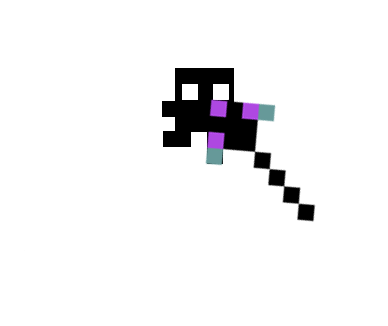
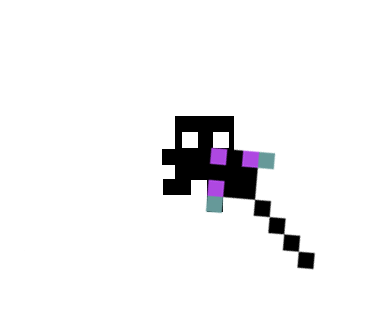
updating collision images further, and rect drawing around sprite

Changed region(s): [[0.4021, 0.184, 0.8351, 0.8282]]

diff --git a/main.py b/main.py
@@ -192,7 +192,7 @@ class Player_Sprite(Image):
                 self.prevdir = 'right'
             if keys.get(Keyboard.keycodes['left']):
                 self.prevdir = 'left'
-            self.last = Rect(self.pos[0]+(self.width*.42),self.pos[1], (self.size[0]/6), self.size[1]*.30)
+            self.last = Rect(self.pos[0]+(self.width*.42),self.pos[1]+(self.height*.35), (self.size[0]*.16), self.size[1]*.29)
             if keys.get(Keyboard.keycodes['x']):
                 Clock.schedule_once(self.atk)
             if not keys.get(Keyboard.keycodes['x']):
@@ -276,7 +276,7 @@ class Player_Sprite(Image):
 
     def move_or_collide(self):
         blocked = False
-        self.new = Rect(self.pos[0]+(self.width*.42), self.pos[1], (self.size[0]/6), self.size[1]*.30)
+        self.new = Rect(self.pos[0]+(self.width*.42),self.pos[1]+(self.height*.35), (self.size[0]*.16), self.size[1]*.29)
         """Rect instantiated with x set to where character drawing is, relative to the
          overall width of the image (5/12 (42%) of the image, 1/6 wide) for more precise
          collision as the character drawing is centered within a larger transparent image"""
@@ -301,7 +301,7 @@ class Player_Sprite(Image):
                 self.new.left = cell.right+1  # 1 pixel for padding, to prevent corner sticking
                 self.coldir = 'r'
                 blocked = True
-            self.pos = self.new.bottomleft[0]-self.width*.42, self.new.bottomleft[1]
+            self.pos = self.new.bottomleft[0]-self.width*.42, self.new.bottomleft[1]-self.height*.35
             self.posref = self.pos
         if blocked == True:
             return True
